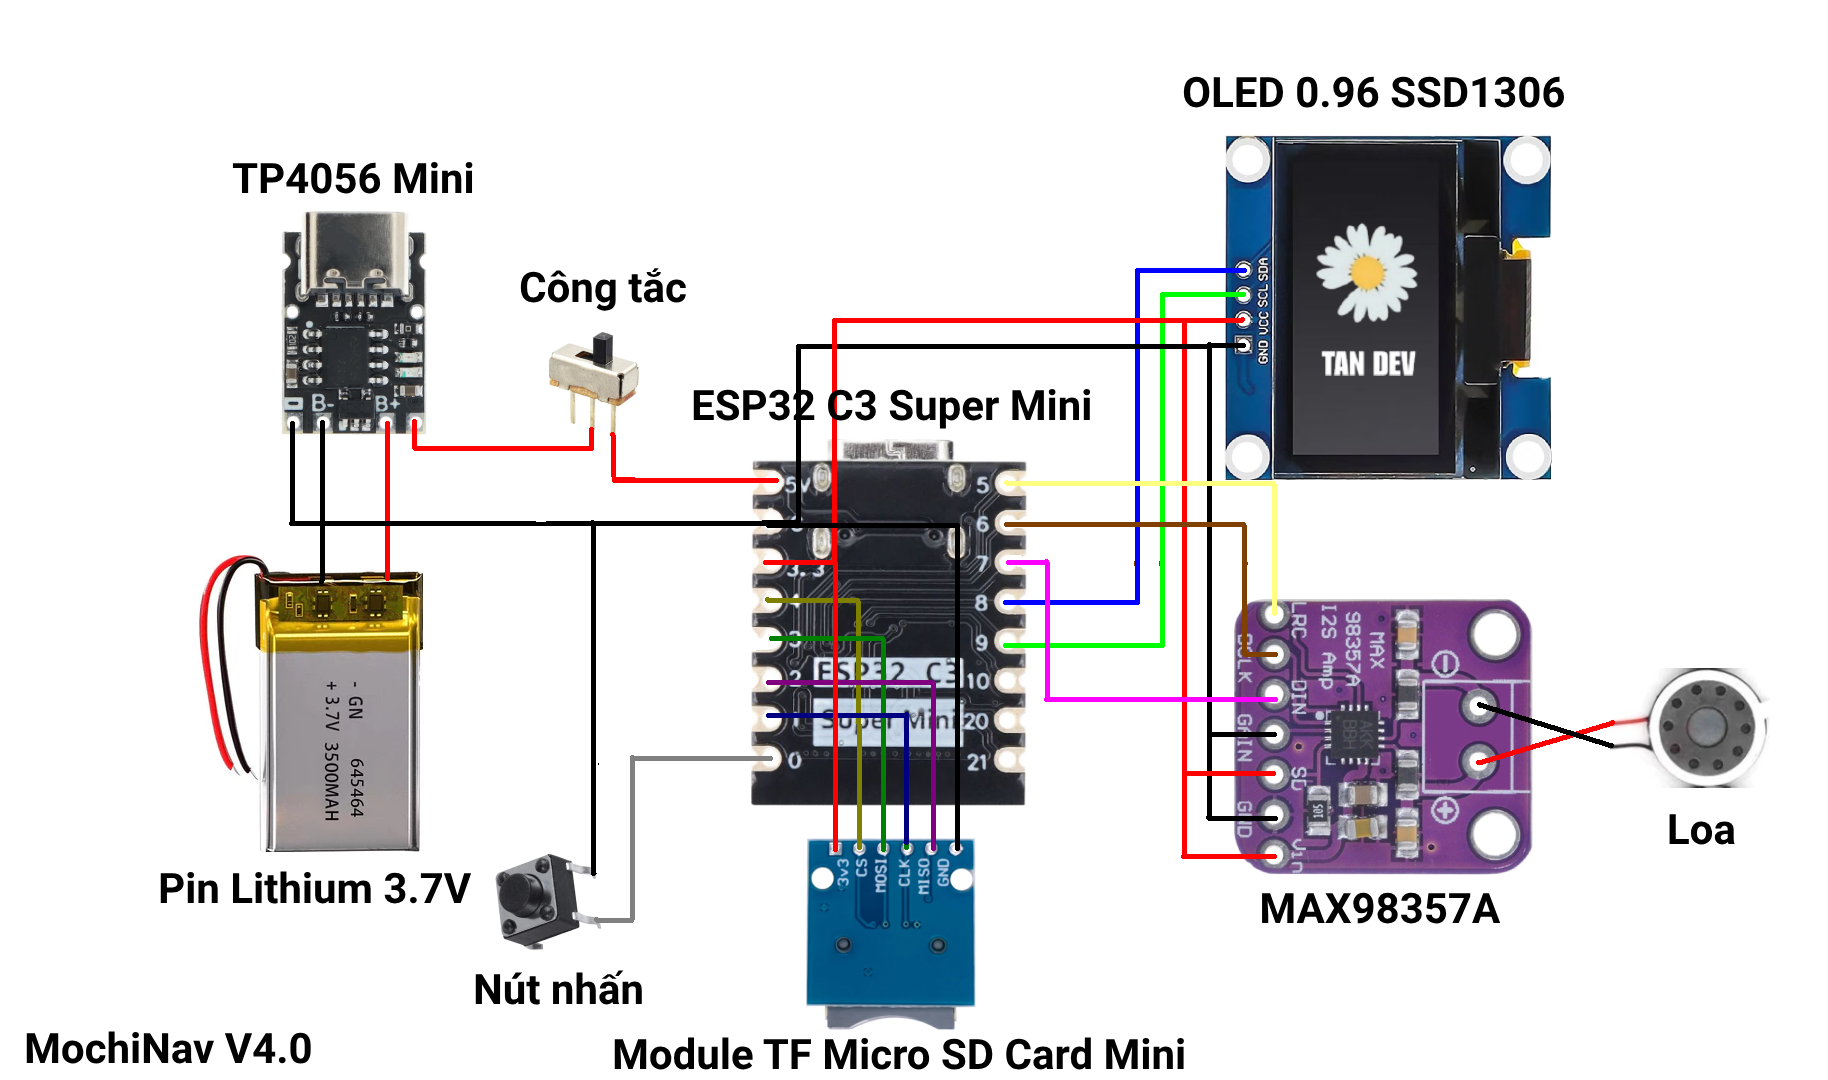
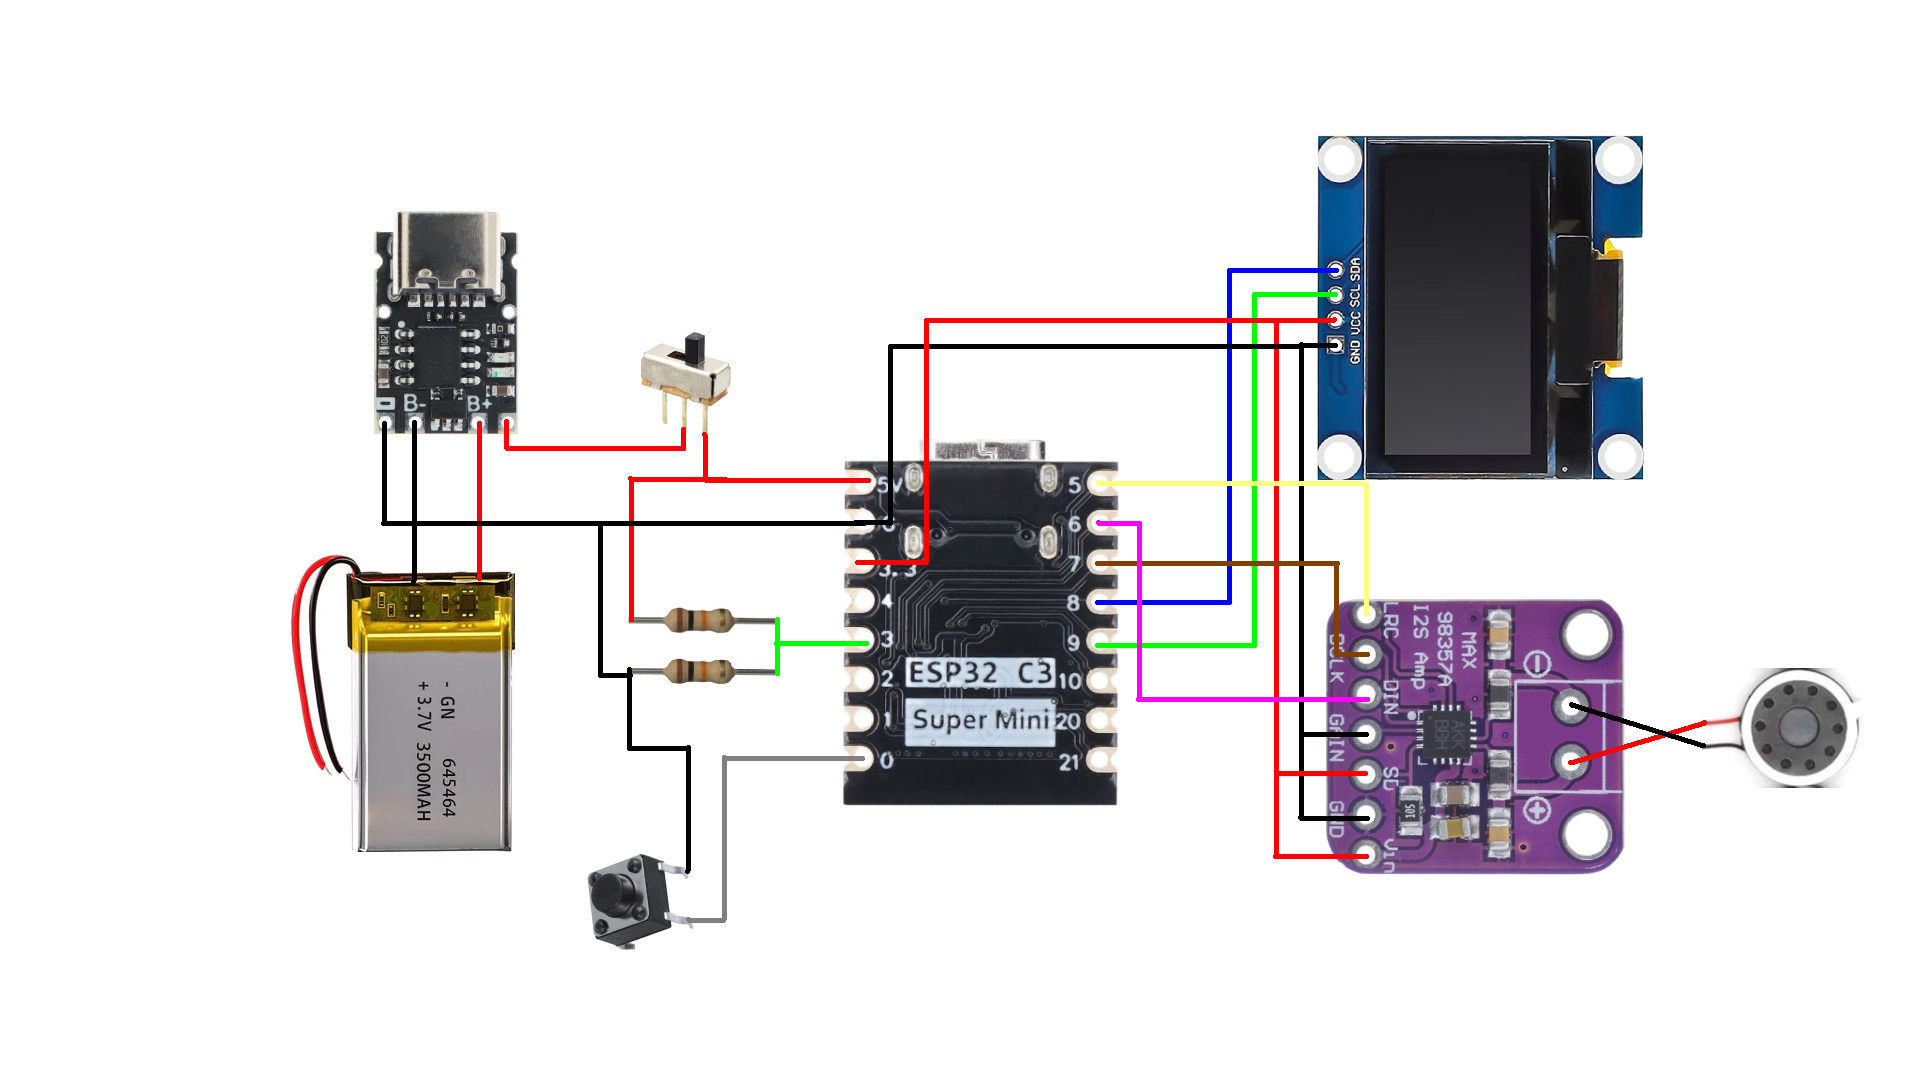
commit

Changed region(s): [[0.0935, 0.0611, 0.9666, 1.0], [0.0, 0.9472, 0.1871, 1.0], [0.9043, 0.7639, 0.9666, 0.7944]]

diff --git a/index.html b/index.html
@@ -197,11 +197,11 @@
                                                         <td>GND</td>
                                                     </tr>
                                                     <tr>
-                                                        <td>GPIO4</td>
+                                                        <td>GPIO8</td>
                                                         <td>SDA</td>
                                                     </tr>
                                                     <tr>
-                                                        <td>GPIO5</td>
+                                                        <td>GPIO9</td>
                                                         <td>SCL</td>
                                                     </tr>
                                                 </tbody>
